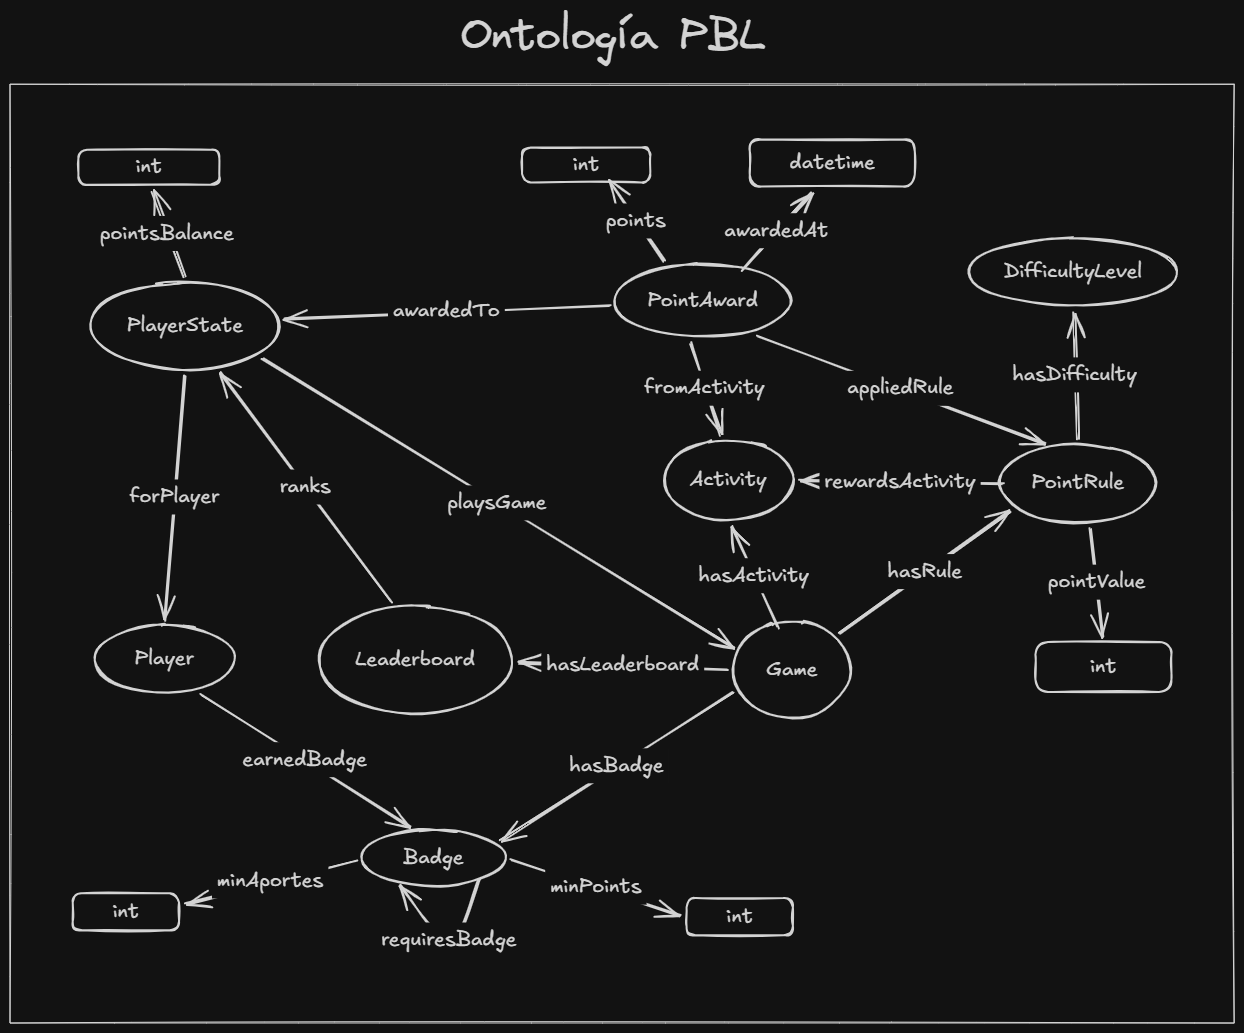
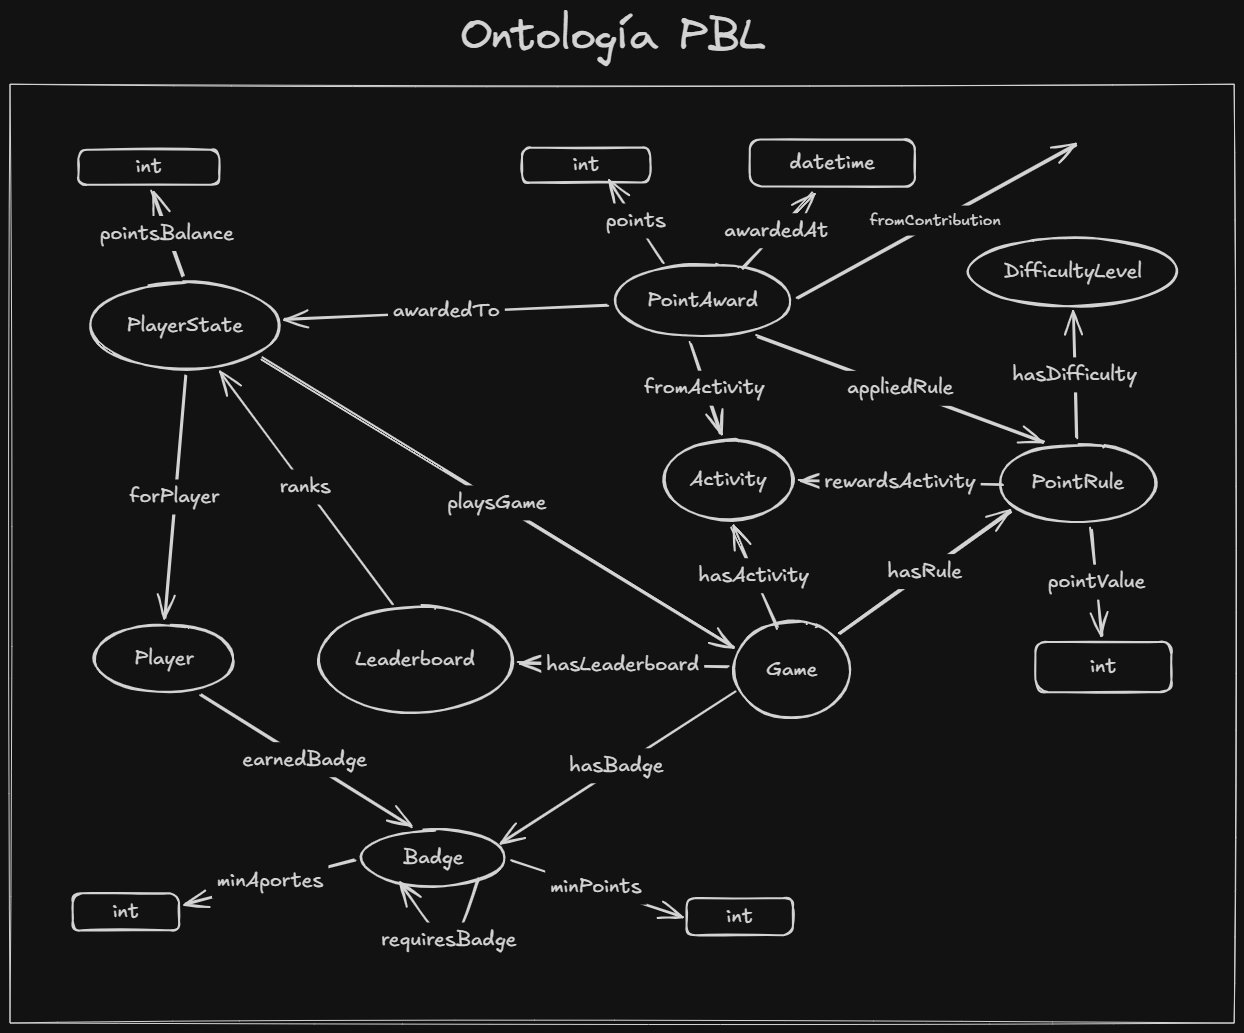
Se agrega data para participantes jugando, se corrige modelado de medallas (mediante shape) y se agrega relacion para contribucion de dominio

diff --git a/Docs/estados-jugador-e4.md b/Docs/estados-jugador-e4.md
@@ -1,0 +1,41 @@
+# E4 — Estados de jugador esperados (juego "relevamiento participativo")
+
+Tabla de referencia para el coloquio (H4.3 / H7.4). Documenta qué representa cada
+persona y cómo se compone su billetera de puntos a partir de los `pbl:PointAward`
+de `data/juego-eventos.ttl`.
+
+> **Nota (Opción A):** la columna "Medallas" es el **resultado esperado**, no un dato
+> cargado a mano. La obtención de medallas se determina con Shapes en E5 (req. 5) y se
+> materializa (`pbl:earnedBadge`) en H5.4. Esta tabla sirve de _golden result_ para
+> verificar que el shape produce exactamente estas medallas.
+
+## Reglas de puntaje aplicadas
+
+| Actividad | Regla | Puntos | Disparador en el dominio |
+|---|---|---|---|
+| Completar protocolo | `regla/protocolo` | 50 | La `cipa:Muestra` alcanzó un paso terminal (`foto-arbol`, `confirmar-exotica` o `aves-cantidad`) |
+| Subir foto | `regla/foto` | 20 | Una `cipa:MuestraRespuesta` con `cipa:valorMultimedia` |
+| Geolocalizar | `regla/geo` | 10 | La `cipa:Muestra` tiene `cipa:registradaEn` una `cipa:Ubicacion` |
+| Editar perfil | `regla/perfil` | 0 | Acción administrativa — **no** genera `pbl:PointAward` |
+
+## Medallas (E3)
+
+| Medalla | `minPoints` | Requiere |
+|---|---|---|
+| Aficionado (M1) | 50 | — |
+| Explorador (M2) | 100 | Aficionado |
+| Naturalista (M3) | 200 | Explorador |
+
+## Estado por persona
+
+(Medallas = resultado esperado a derivar por E5; ver nota arriba.)
+
+| Persona | Aportes | Cálculo | Billetera | Medallas (esperadas) | Estado demostrado |
+|---|---|---|---|---|---|
+| **Lucía Gómez** | arboles-005 (abandonada) | 10 | **10** | — | Sin medalla (no-conformidad para E5) |
+| **Matías Cabrera** | arboles-002 | 50+20+10 | **80** | Aficionado | Gana M1 pero no M2 |
+| **Bruno Lattanzio** | arboles-003 (exótica, sin foto) + aves-002 | (50+10) + (50+20+10) | **140** | Aficionado, Explorador | Llega hasta M2 |
+| **Ana Pérez** | arboles-001 + arboles-004 + aves-001 | 3×(50+20+10) | **240** | Aficionado, Explorador, Naturalista | Elegible para M3 |
+
+> La billetera materializada en `data/player-state.ttl` (`pbl:pointsBalance`) debe
+> coincidir con `SUM(pbl:points)` de los `pbl:PointAward` de cada jugador.

diff --git a/Docs/backlog/E4-participantes-jugando/H4.2-estado-jugador.md b/Docs/backlog/E4-participantes-jugando/H4.2-estado-jugador.md
@@ -1,23 +1,29 @@
 # H4.2 — Estado de jugador
 
 **Épica:** [E4 — Participantes jugando](README.md)
-**Requisito:** 4 (prepara 6.b.i) · **Prioridad:** `[MUST]` · **Estado:** Pendiente
+**Requisito:** 4 (prepara 6.b.i) · **Prioridad:** `[MUST]` · **Estado:** Completado
 **Depende de:** H4.1 · **Habilita:** H6.4
 
 ## Historia de usuario
+
 Como equipo, queremos poder derivar, por persona y juego, sus puntos acumulados y su progreso hacia cada medalla, para representar el estado del jugador.
 
 ## Contexto (del PDF)
+
 "Estado del Usuario-Jugador: Billetera de Puntos, Colección de Logros, Nivel de Dificultad."
 
 ## Criterios de aceptación
-- [ ] Para cada `cipa:Persona` se puede obtener la **billetera** (suma de `pbl:PointAward`).
-- [ ] Se puede calcular el **progreso** hacia cada medalla (cuánto falta para el umbral).
-- [ ] El estado es consultable por **juego particular** (no global), para 6.b.i.
+
+- [x] Para cada `cipa:Persona` se puede obtener la **billetera** (suma de `pbl:PointAward`), materializada en `pbl:pointsBalance`.
+- [x] Se puede calcular el **progreso** hacia cada medalla (cuánto falta para el umbral) comparando `pointsBalance` con `pbl:minPoints`.
+- [x] El estado es consultable por **juego particular** (no global): cada `pbl:PlayerState` enlaza `pbl:playsGame` → `juego/relevamiento`.
 
 ## Tareas
-- [ ] Definir cómo se agrega la billetera (consulta `SUM` o materialización en `PlayerState`).
-- [ ] Verificar que el progreso por medalla sea derivable de los criterios de H3.2.
+
+- [x] Definir cómo se agrega la billetera: **materializada** en `PlayerState` y verificada contra `SUM` de los awards.
+- [x] Verificar que el progreso por medalla sea derivable de los criterios de H3.2.
 
 ## Artefactos
+
 - `data/player-state.ttl` (si se materializa) · consulta base reutilizada en H6.4
+

diff --git a/Docs/backlog/E4-participantes-jugando/H4.1-acciones-puntos.md b/Docs/backlog/E4-participantes-jugando/H4.1-acciones-puntos.md
@@ -1,7 +1,7 @@
 # H4.1 — Acciones → eventos de puntos
 
 **Épica:** [E4 — Participantes jugando](README.md)
-**Requisito:** 4 · **Prioridad:** `[MUST]` · **Estado:** Pendiente
+**Requisito:** 4 · **Prioridad:** `[MUST]` · **Estado:** Completado
 **Depende de:** H2.4, H3.3 · **Habilita:** H4.2, H5.2
 
 ## Historia de usuario
@@ -11,17 +11,20 @@ Como equipo, queremos que cada acción relevante de una persona genere un evento
 Req. 4: "los participantes están jugando al juego definido en 3."
 
 ## Criterios de aceptación
-- [ ] Cada `cipa:Muestra` o `cipa:MuestraRespuesta` relevante (de E2) genera un `pbl:PointAward` según la `pbl:PointRule` aplicable (de H3.3).
-- [ ] El `pbl:PointAward` referencia la acción de dominio que lo originó (muestra completa, respuesta con adjunto multimedia, respuesta de cuestionario, etc.) para mantener trazabilidad dominio→juego.
-- [ ] Las acciones administrativas **no** generan `pbl:PointAward`.
+- [x] Cada `cipa:Muestra` o `cipa:MuestraRespuesta` relevante (de E2) genera un `pbl:PointAward` según la `pbl:PointRule` aplicable (de H3.3).
+- [x] El `pbl:PointAward` referencia la acción de dominio que lo originó vía `pbl:fromContribution` (muestra completa, respuesta con adjunto multimedia) para mantener trazabilidad dominio→juego.
+- [x] Las acciones administrativas (editar perfil) **no** generan `pbl:PointAward`.
 
 ## Tareas
-- [ ] Mapear cada tipo de acción de E2 (`cipa:Muestra`, `cipa:valorMultimedia`, `cipa:seleccionaOpcion`, etc.) a su regla de H3.3.
-- [ ] Instanciar los `pbl:PointAward` correspondientes.
+- [x] Mapear cada tipo de acción de E2 a su regla de H3.3 (protocolo terminal=50, `valorMultimedia`=20, geolocalización=10).
+- [x] Instanciar los `pbl:PointAward` correspondientes en `data/juego-eventos.ttl`.
 
 ## Notas de modelado
 - Este es el **punto de acople** entre `cipa:` y `pbl:`; las ontologías quedan separadas (E1/E3) y se unen acá vía la capa de datos.
 - Se conservan las IRIs existentes: dominio en `cipa:`, ludificación en `pbl:` y datos concretos en `cipa-data:`.
+- Acople persona↔jugador: cada `pbl:Player` se enlaza a su `cipa:Persona` con `owl:sameAs`.
+- Trazabilidad: se agregó `pbl:fromContribution` (en `ontology/pbl.ttl`, sin rango para no acoplar la T-Box) que liga el award con la `cipa:Muestra`/`cipa:MuestraRespuesta` de origen.
+- "Protocolo completado" = la muestra tiene respuesta para un paso **terminal** (sin transición saliente): `foto-arbol`/`confirmar-exotica` (árboles) o `aves-cantidad` (aves).
 
 ## Artefactos
 - `data/juego-eventos.ttl`

diff --git a/Docs/backlog/E4-participantes-jugando/H4.3-cobertura-demo.md b/Docs/backlog/E4-participantes-jugando/H4.3-cobertura-demo.md
@@ -1,21 +1,21 @@
 # H4.3 — Cobertura para demostración
 
 **Épica:** [E4 — Participantes jugando](README.md)
-**Requisito:** 4 (asegura demo de 5 y 6.b) · **Prioridad:** `[MUST]` · **Estado:** Pendiente
+**Requisito:** 4 (asegura demo de 5 y 6.b) · **Prioridad:** `[MUST]` · **Estado:** Completado
 **Depende de:** H4.1 · **Habilita:** E5, H6.5, H6.6
 
 ## Historia de usuario
 Como equipo, queremos que los datos garanticen los tres estados de medalla, para que las shapes y las consultas muestren resultados distintos y convincentes en el coloquio.
 
 ## Criterios de aceptación
-- [ ] Una `cipa:Persona` que **gana M1 pero no M2**.
-- [ ] Una `cipa:Persona` que **llega hasta M2** (gana M1 y M2, no M3).
-- [ ] Una `cipa:Persona` **elegible para M3** (gana las tres).
-- [ ] (Deseable) Una `cipa:Persona` que **no gana ninguna** medalla (caso de no-conformidad).
+- [x] Una `cipa:Persona` que **gana M1 pero no M2** → Matías Cabrera (80).
+- [x] Una `cipa:Persona` que **llega hasta M2** (gana M1 y M2, no M3) → Bruno Lattanzio (140).
+- [x] Una `cipa:Persona` **elegible para M3** (gana las tres) → Ana Pérez (240).
+- [x] (Deseable) Una `cipa:Persona` que **no gana ninguna** medalla (caso de no-conformidad) → Lucía Gómez (10).
 
 ## Tareas
-- [ ] Ajustar los `PointAward`/aportes de E4 para producir exactamente estos estados.
-- [ ] Documentar qué persona representa cada estado (para el guion de coloquio H7.4).
+- [x] Ajustar los `PointAward`/aportes de E4 para producir exactamente estos estados.
+- [x] Documentar qué persona representa cada estado (para el guion de coloquio H7.4) → `Docs/estados-jugador-e4.md`.
 
 ## Notas
 - Esta cobertura es lo que hace verificables a E5 (shapes) y a H6.5/H6.6 (consultas de medallas).

diff --git a/Docs/backlog/E5-shapes-medallas/H5.4-materializacion.md b/Docs/backlog/E5-shapes-medallas/H5.4-materializacion.md
@@ -17,8 +17,9 @@ Como equipo, queremos escribir `pbl:earnedBadge` a partir del resultado de valid
 - [ ] Cargar el resultado en GraphDB.
 
 ## Notas de modelado
-- Materializar simplifica H6.5/H6.6 (consultar `earnedBadge` directo) y permite que la precedencia de H5.2 se apoye en `earnedBadge`.
-- Si no se materializa, las consultas de E6 deben replicar el criterio del shape; documentar la opción elegida.
+- **Opción A (elegida):** esta historia es la **única fuente** de `pbl:earnedBadge`. E4 no lo asevera; se produce acá a partir de la conformidad a las `BadgeShape` de H5.2. El resultado debe coincidir con el _golden result_ de `Docs/estados-jugador-e4.md`.
+- Materializar simplifica H6.5/H6.6 (consultar `earnedBadge` directo).
+- La precedencia de H5.2 **no** se apoya en `earnedBadge` (no existe antes de esta materialización): se evalúa por umbral de puntos.
 
 ## Artefactos
 - `shapes/materialize-badges.rq` · datos `pbl:earnedBadge`

diff --git a/Docs/backlog/E5-shapes-medallas/H5.2-shapes-medallas.md b/Docs/backlog/E5-shapes-medallas/H5.2-shapes-medallas.md
@@ -17,7 +17,8 @@ Como equipo, queremos una shape por medalla que codifique su criterio y su prece
 - [ ] Encadenar la precedencia (M2⇐M1, M3⇐M2).
 
 ## Notas de modelado
-- La precedencia puede resolverse: (a) repitiendo el criterio previo dentro del SELECT, o (b) consultando `pbl:earnedBadge` si se materializa (H5.4). Documentar cuál se usa.
+- **Decisión (Opción A):** E4 **no** asevera `pbl:earnedBadge`; las medallas se ganan acá. Por lo tanto el criterio del shape se evalúa sobre los **puntos** (`pbl:pointsBalance` del `PlayerState`, o `SUM(pbl:points)`), nunca sobre `earnedBadge` (sería circular). La precedencia se resuelve **repitiendo el umbral previo** dentro del `SELECT` (M2 ⇒ balance ≥ 100, que ya implica el ≥ 50 de M1).
+- Acople: el actor de dominio es `cipa:Persona`, pero los puntos viven en `pbl:PlayerState` (enlazado por `owl:sameAs` Persona↔Player y `pbl:forPlayer`). El `sh:sparql` debe puentear ese salto, o bien targetear directamente `pbl:PlayerState` (que ya trae `pbl:pointsBalance` y `pbl:playsGame`, resolviendo el "por juego particular").
 
 ## Artefactos
 - `shapes/badges.ttl`

diff --git a/Docs/backlog/E6-graphdb-consultas/H6.2-consultas-multihop.md b/Docs/backlog/E6-graphdb-consultas/H6.2-consultas-multihop.md
@@ -12,7 +12,7 @@ Como evaluador, quiero dos consultas con navegación de más de un salto y senti
 
 ## Criterios de aceptación
 - [ ] **Consulta A — Intereses/aportes por área (cierra H1.9):** personas que aportaron en proyectos de un área dada, navegando `Persona ← respondidaPor ← Muestra → ejecutaProtocolo → Protocolo ← tieneProtocoloActivo ← Proyecto → perteneceA → AreaConocimiento`. (≥2 saltos.)
-- [ ] **Consulta B — Camino del protocolo:** reconstrucción del/los camino(s) del protocolo vía `cipa:siguientePaso+` (property path multi-hop), incluyendo las ramas.
+- [ ] **Consulta B — Camino del protocolo:** reconstrucción del/los camino(s) del protocolo recorriendo las `cipa:Transicion` (no existe `cipa:siguientePaso`; el flujo está reificado). Property path multi-hop desde `cipa:tienePrimerPaso`: `?paso (^cipa:desdePaso/cipa:haciaPaso)+ ?siguiente`, incluyendo las ramas (nativa/exótica).
 - [ ] Ambas devuelven resultados no vacíos sobre los datos de E2 y tienen **sentido de dominio** explicado.
 
 ## Tareas